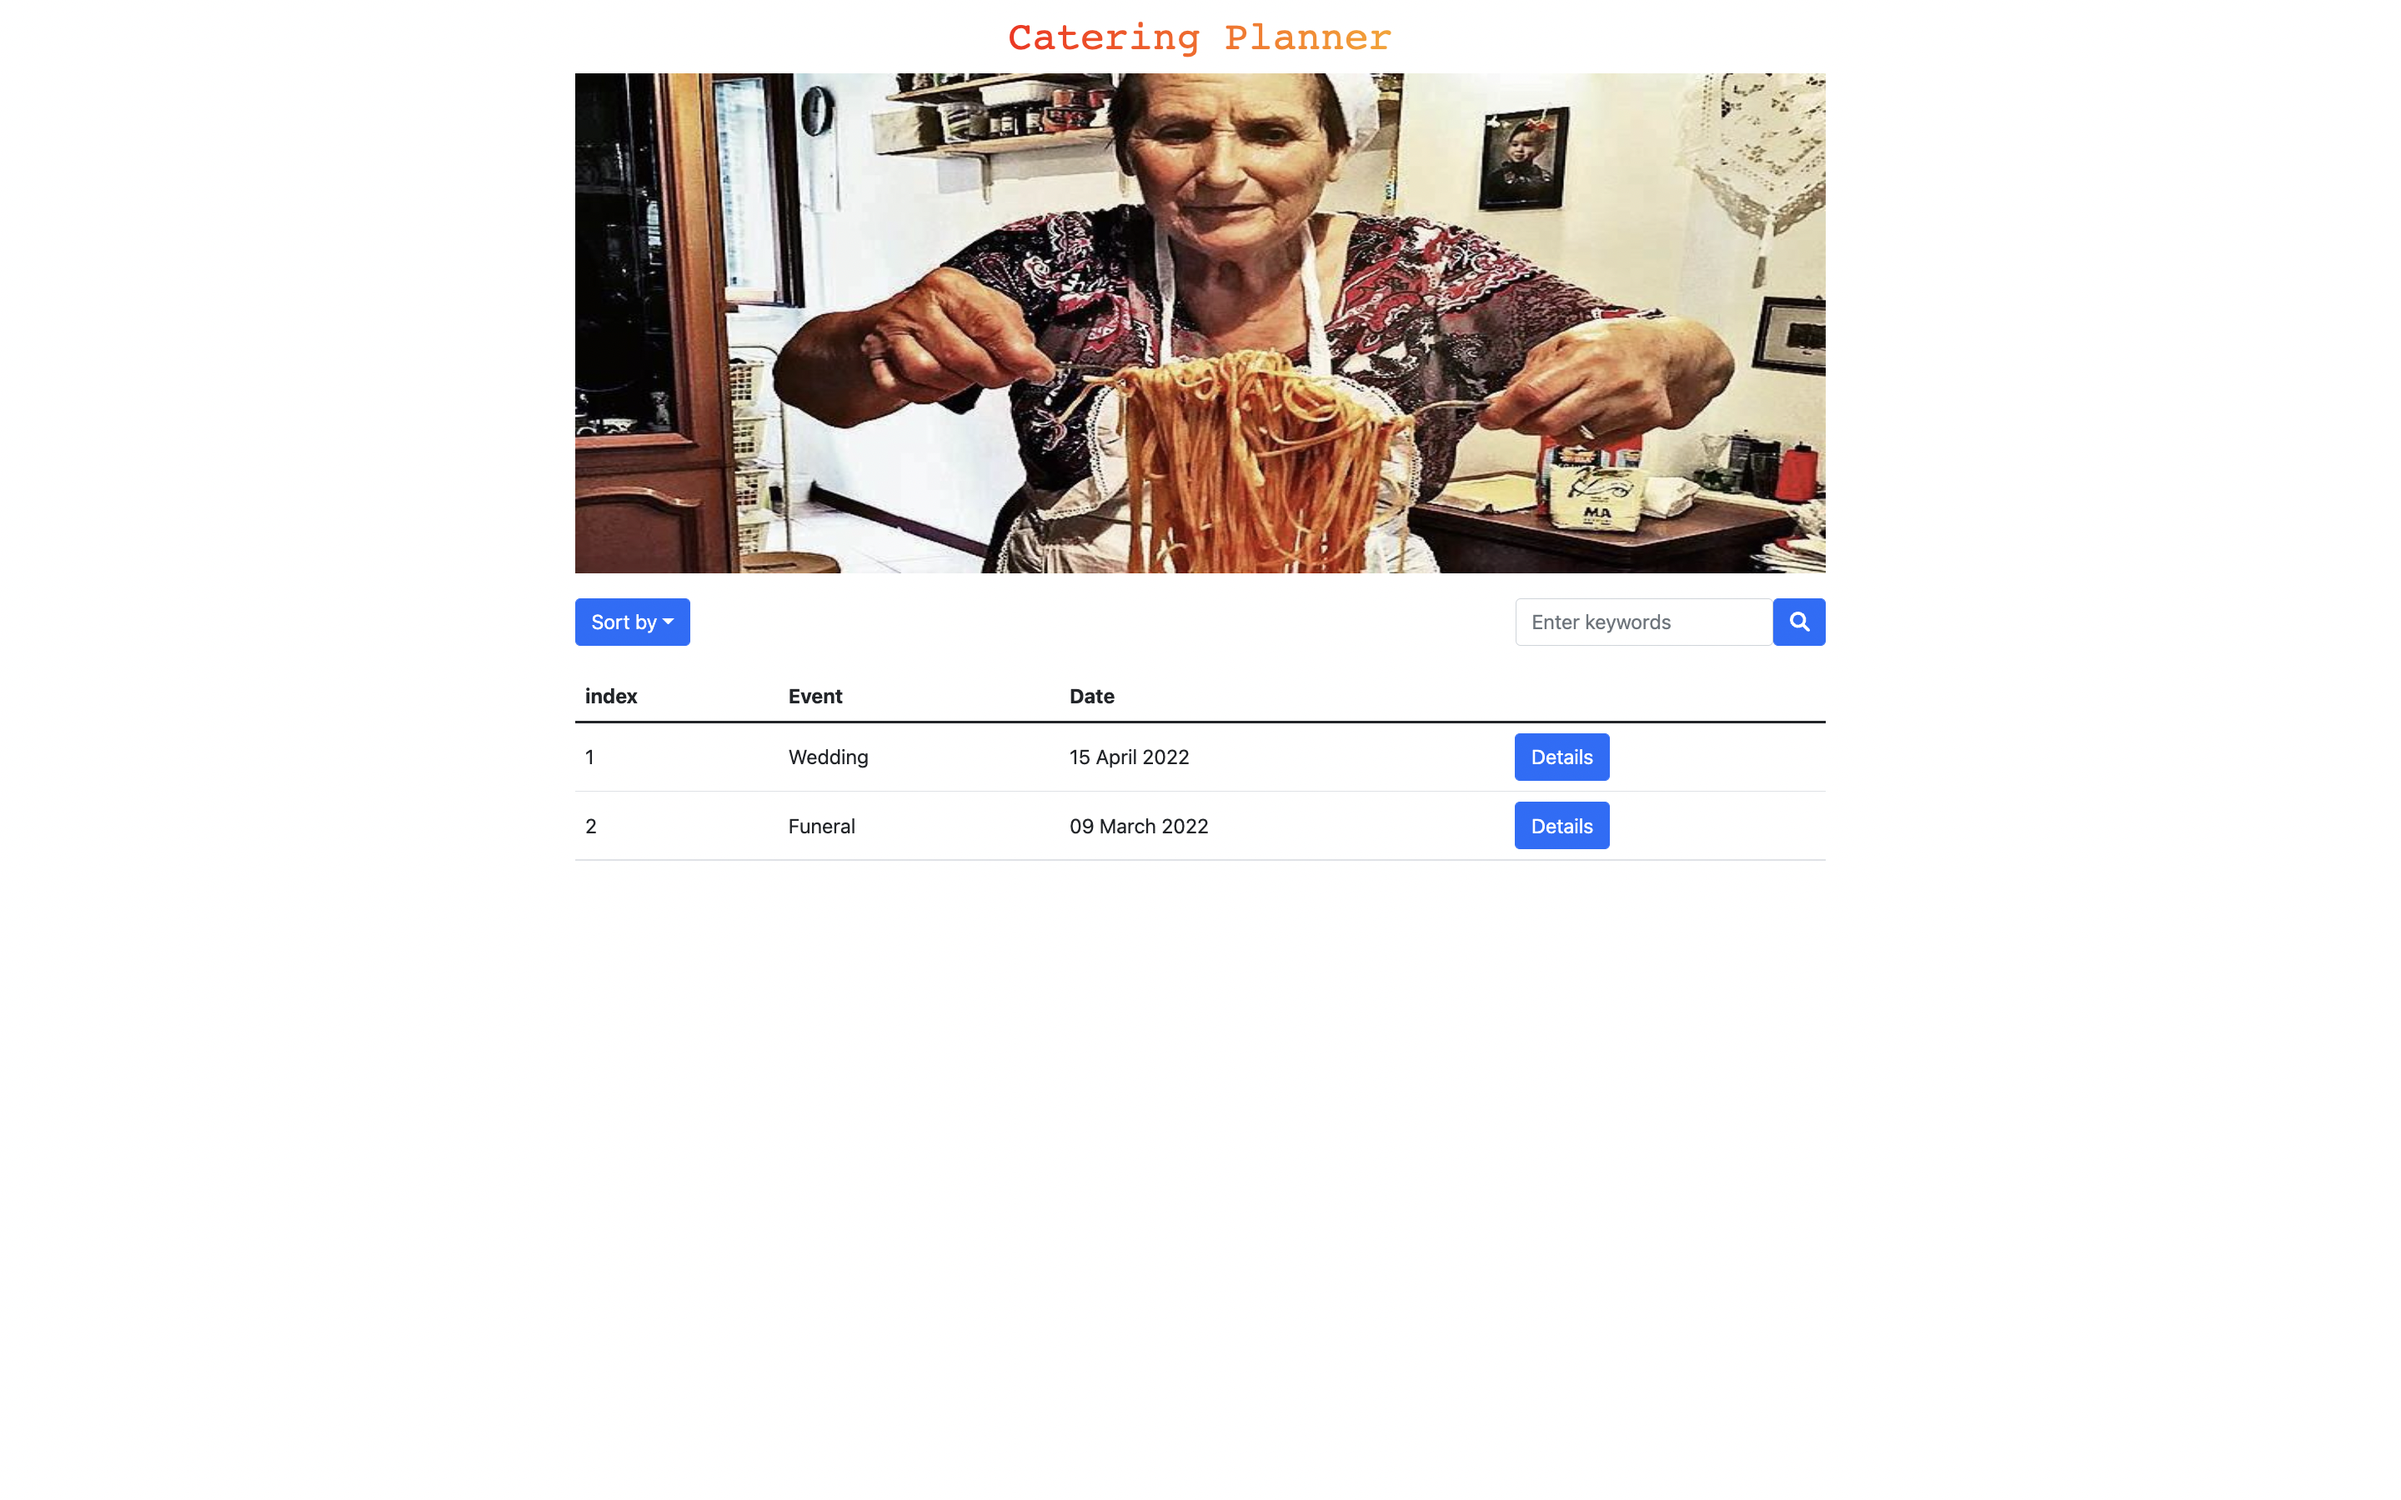
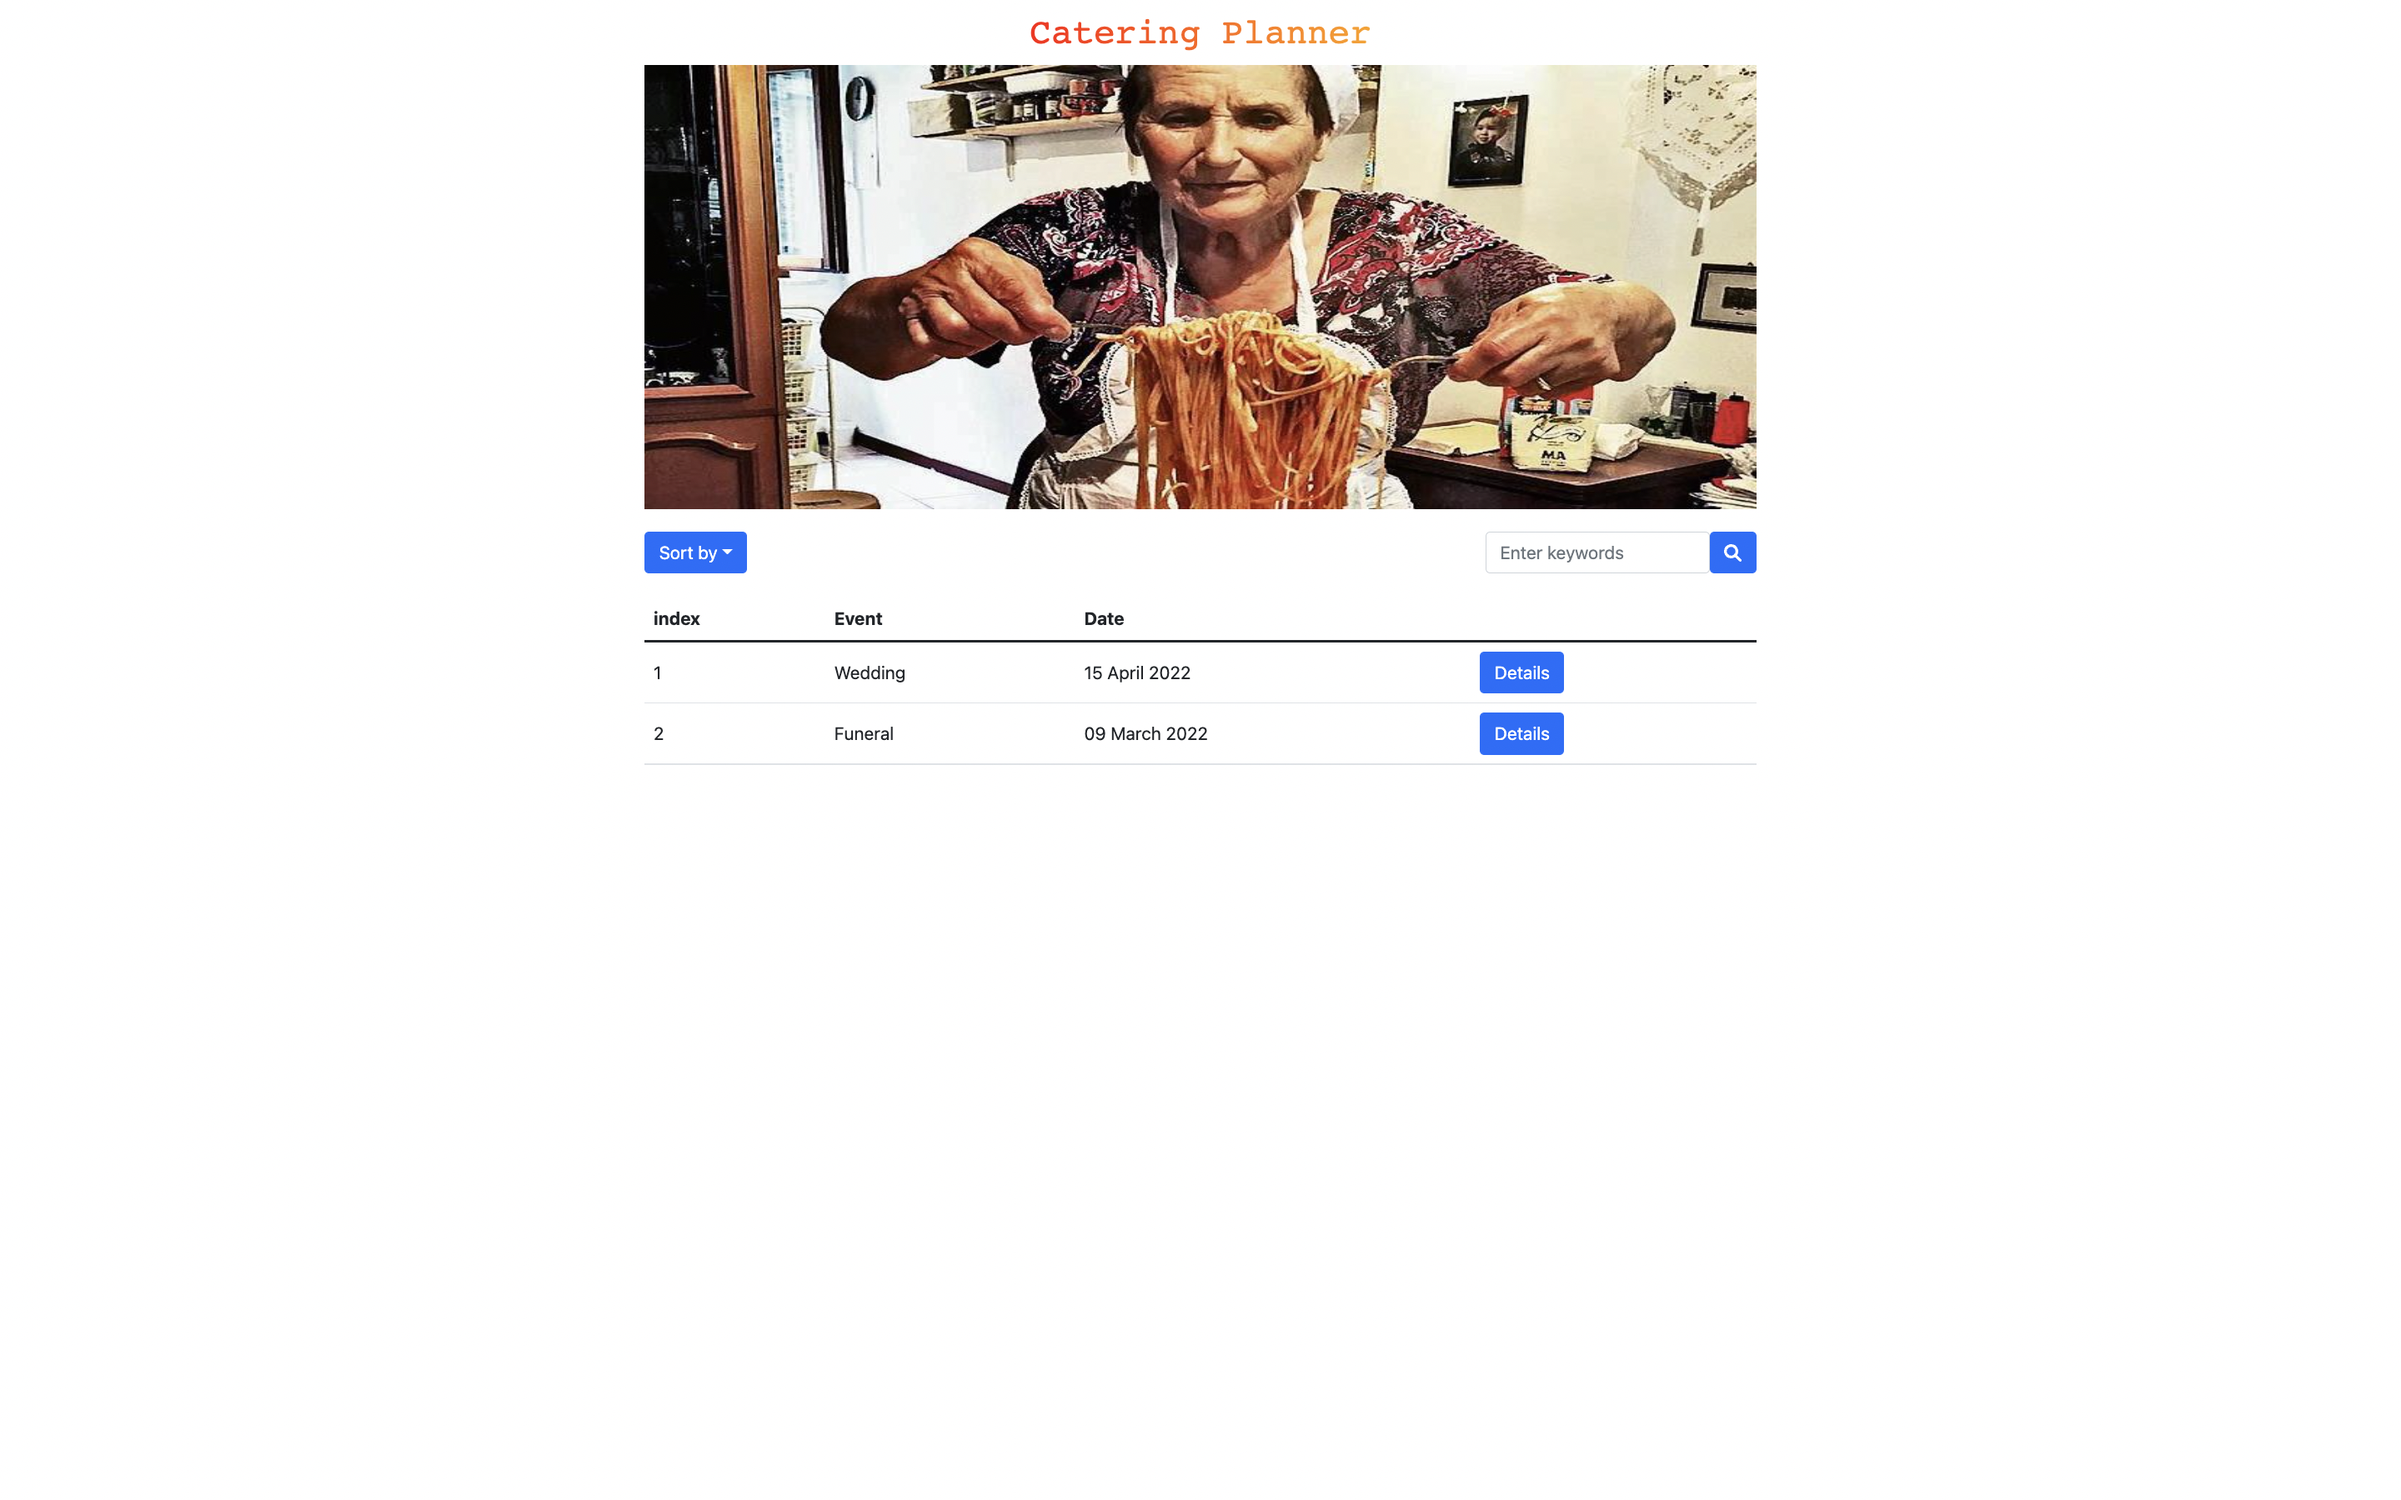
change image path

Changed region(s): [[0.2188, 0.0, 0.7812, 0.5911], [0.3125, 0.4044, 0.375, 0.5289], [0.25, 0.4667, 0.2812, 0.4978]]

diff --git a/README.md b/README.md
@@ -5,27 +5,34 @@
 TofuDB is a customizable database builder with an interactive UI based on Ruby on Rails and React. We made this for users who want to create their own simple database driven website, allow them to manage database structure and control how the data is presented. No coding needed!
 
 ## Getting started
+
 Install dependencies on the Client Server:
+
 ```sh
 npm install
 ```
+
 Running Webpack Development Server:
+
 ```sh
 npm start
 ```
-we'll need to run both Client Server and Api Server to get our application working. For installation Api Server, please head over to README file of https://github.com/tsun812/tofu_db_api 
+
+we'll need to run both Client Server and Api Server to get our application working. For installation Api Server, please head over to README file of https://github.com/tsun812/tofu_db_api
 
 After both servers are installed and running, you should be able to view Tofu DB in http://localhost:8000/
 
 ## Feature
 
 #### Database UI
+
 User could dynamically generate database based on their need.
+
 - Create/modify/delete row
 - Create/modify/delete column
 - Create/modify/delete cell value
 
-!["DB UI"](https://github.com/tsun812/tofu_db/blob/master/docs/DBUI.gif)
+<img src="./docs/DBUI.gif" alt="DB UI" width="500" height="300" />
 
 #### Settings panel
 
@@ -36,30 +43,24 @@ Preview of app with customizable settings where user could decide how the data i
 - Sort/filter results
 - Change display themes
 
-!["Settings"](https://github.com/tsun812/tofu_db/blob/master/docs/Settings.png)
+<b >Settings panel overview</b>
 
-<b>Settings panel overview</b>
+<img src="./docs/Settings.png" alt="Settings" width="590" height="370" />
 
-Details page contains data related to this specific item.
+<b>Details page contains data related to this specific item.</b>
 
-!["Details"](https://github.com/tsun812/tofu_db/blob/master/docs/Details.gif)
-
-<b>Details</b>
-
-!["SortFilter"](https://github.com/tsun812/tofu_db/blob/master/docs/SoftFilter.png)
+<img src="/docs/Details.png" alt="Details" width="590" height="370" />
 
 <b>Sort by dates, filter by keywords</b>
 
+<img src="./docs/SortFilter.png" alt="Details" width="590" height="370"/>
+
+---
 #### General applications
 
-###### Dictionary
+<img src="./docs/Dictionary.png" alt="Dictionary" width="590" height="370"/></br> 
 
-!["Dictionary"](https://github.com/tsun812/tofu_db/blob/master/docs/Dictionary.png)
+<img src="./docs/Realestate.png" alt="Real estate" width="590" height="370" /></br>
 
-###### Real estate directory
+<img src="./docs/Catering.png" alt="Catering" width="590" height="370" />
 
-!["Real estate"](https://github.com/tsun812/tofu_db/blob/master/docs/Realestate.png)
-
-###### Catering website
-
-!["Catering"](https://github.com/tsun812/tofu_db/blob/master/docs/Catering.png)
